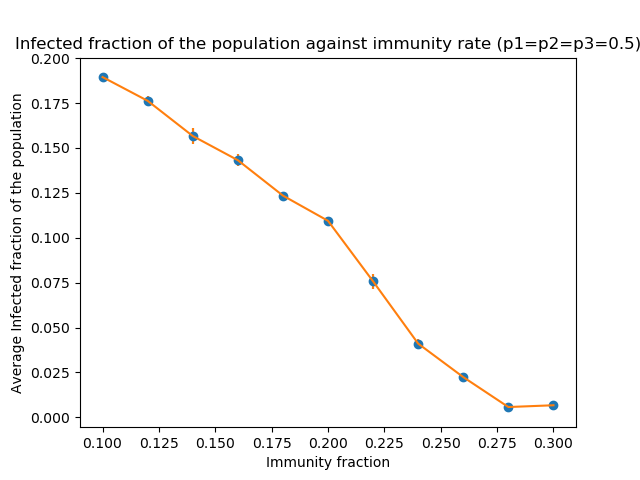
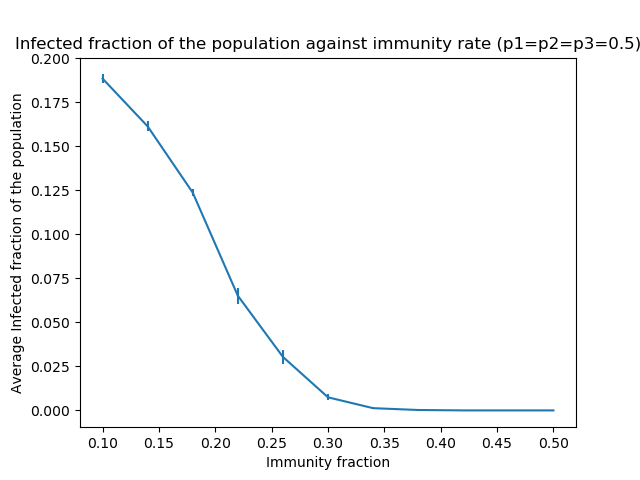
Full immunity fraction

diff --git a/CP2/SIRS/immunity_test.py b/CP2/SIRS/immunity_test.py
@@ -30,7 +30,7 @@ def immune():
     i_frac_list = []
     i_error_list = []
     # immunity list from 0.1 to 0.6 in steps of 0.05
-    imm_list = np.linspace(0.1,0.3,num=11, endpoint=True)
+    imm_list = np.linspace(0.1,0.5,num=11, endpoint=True)
     # iterate over immunity fractions
     for j in range(len(imm_list)):
         print("Calculating Immunity {}/{}...".format(j,len(imm_list)))
@@ -51,7 +51,7 @@ def immune():
 
 
     # Plot it in here, then Write
-    plt.errorbar(imm_list, i_frac_list, yerr=i_error_list, fmt = 'o')
+    #plt.errorbar(imm_list, i_frac_list, yerr=i_error_list, fmt = 'o')
     plt.errorbar(imm_list, i_frac_list, yerr=i_error_list)
     plt.xlabel("Immunity fraction")
     plt.ylabel("Average Infected fraction of the population")
